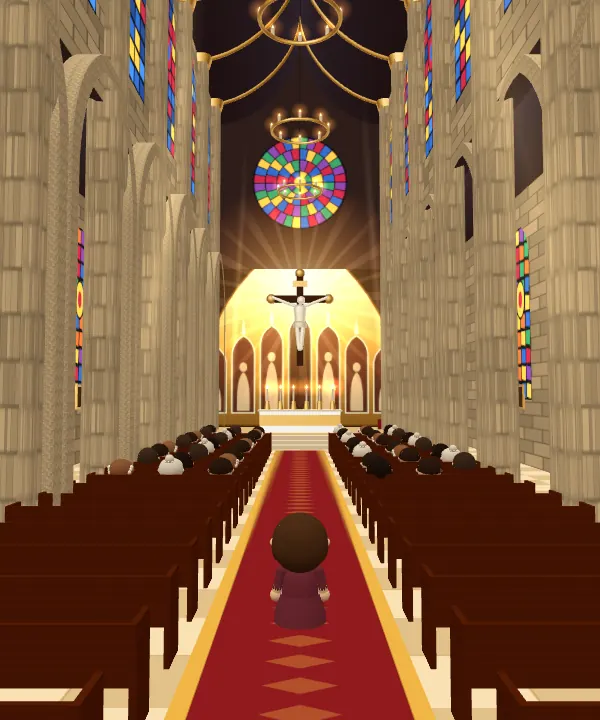
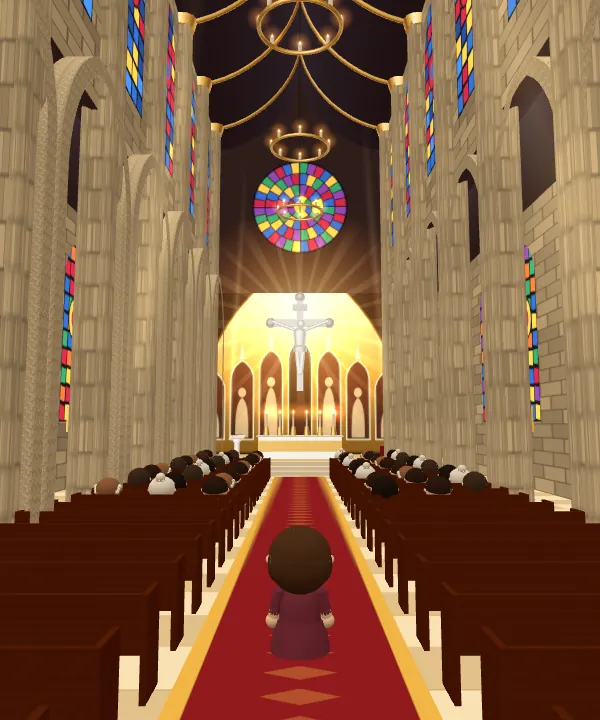
현대 교회 나무 장의자, 공간 사진 다시 찍기, 일본 선종 사찰 삭제, 호흡 명상 타이머 소리 제거, 홈 첫 사진 줄이고 부드럽게
Claude-Session: https://claude.ai/code/session_01TJUsTByDCEcfZsEYPpK4HM

diff --git a/src/worlds/christian/three.ts b/src/worlds/christian/three.ts
@@ -225,41 +225,35 @@ export function buildModern(ctx: BuildCtx): Built {
   for (let z = Z0 + 8; z < Z1 - 2; z += 5) for (const x of [-4, 4]) {
     scene.add(cyl(0.008, 0.008, 2.5, std('#444'), x, H - 2.5, z, 4), box(2.2, 0.06, 0.12, new THREE.MeshBasicMaterial({ color: 0xfff2d8 }), x, H - 2.6, z))
   }
-  // 곡선으로 놓인 나무 의자 + 앉은 교인 + 빈 자리
-  const chairGeo = new THREE.BoxGeometry(0.55, 0.06, 0.5)
-  chairGeo.translate(0, 0.45, 0)
-  const backGeo = new THREE.BoxGeometry(0.55, 0.45, 0.05)
-  backGeo.translate(0, 0.7, 0.24)
-  const mats: THREE.Matrix4[] = []
-  const d = new THREE.Object3D()
+  // 나무 장의자(등받이·옆판·다리) 두 줄 + 앉은 교인 + 빈 자리
+  const pewWood = std('#c49d6c', { map: wood('#b8915e') })
   const people: Parameters<BuildCtx['crowd']>[0] = []
   let pi = 0
-  for (let r = 0; r < 9; r++) {
-    const rad = 10 + r * 1.15
-    for (let c = -7; c <= 7; c++) {
-      if (c === 0) continue // 가운데 통로
-      const a = c * (0.9 / rad) * 1.15
-      const x = Math.sin(a) * rad
-      const z = pZ + 4.2 - 10 + Math.cos(a) * rad + 0.2
-      if (Math.abs(x) > W / 2 - 1.2) continue
-      const yaw = Math.PI + a
-      d.position.set(x, 0, z)
-      d.rotation.set(0, a, 0)
-      d.updateMatrix()
-      mats.push(d.matrix.clone())
-      if ((r * 5 + c + 20) % 4 !== 0 && r < 8) people.push({ x, z: z - 0.05, y: 0.45, yaw, look: visitorLook('christian', pi++) })
-      else ctx.seat(x, z - 0.05, 0.45, yaw)
+  const x0 = 1.0, x1 = W / 2 - 1.6, len = x1 - x0
+  for (let r = 0; r < 10; r++) {
+    const z = pZ + 5 + r * 1.2
+    for (const side of [-1, 1]) {
+      const xc = side * (x0 + len / 2)
+      const pew = new THREE.Group()
+      pew.add(
+        box(len, 0.07, 0.46, pewWood, 0, 0.45, 0), // 앉는 판
+        box(len, 0.5, 0.05, pewWood, 0, 0.8, 0.24), // 등받이
+        box(len, 0.06, 0.08, pewWood, 0, 1.06, 0.25), // 등받이 위 손잡이
+        box(len, 0.05, 0.05, pewWood, 0, 0.12, -0.1), // 아래 가로대
+      )
+      for (const ex of [-len / 2, len / 2]) pew.add(box(0.07, 1.0, 0.56, pewWood, ex, 0.5, 0.03)) // 옆판
+      for (const lx of [-len / 4, len / 4]) pew.add(box(0.06, 0.42, 0.06, pewWood, lx, 0.21, -0.12))
+      pew.position.set(xc, 0, z)
+      scene.add(pew)
+      ctx.block({ x0: xc - len / 2 - 0.05, z0: z - 0.3, x1: xc + len / 2 + 0.05, z1: z + 0.3 })
+      for (let k = 0; k < 10; k++) {
+        const x = side * (x0 + 0.4 + k * ((len - 0.8) / 9))
+        if ((r * 7 + k + (side > 0 ? 3 : 0)) % 4 !== 0 && r < 9) people.push({ x, z: z - 0.03, y: 0.45, yaw: Math.PI, look: visitorLook('christian', pi++) })
+        else ctx.seat(x, z - 0.03, 0.45, Math.PI)
+      }
     }
   }
-  const seatM = new THREE.InstancedMesh(chairGeo, std('#6a7a80'), mats.length)
-  const backM = new THREE.InstancedMesh(backGeo, lightOak, mats.length)
-  mats.forEach((m, i) => { seatM.setMatrixAt(i, m); backM.setMatrixAt(i, m) })
-  scene.add(seatM, backM)
   ctx.crowd(people)
-  for (const m of mats) {
-    const p = new THREE.Vector3().setFromMatrixPosition(m)
-    ctx.block({ x0: p.x - 0.32, z0: p.z - 0.3, x1: p.x + 0.32, z1: p.z + 0.3 })
-  }
   ctx.spot('stage', 0, pZ + 4.6, 2)
   ctx.walk({ x0: -W / 2, z0: pZ + 3.4, x1: W / 2, z1: Z1 })
   return {

diff --git a/src/ui/styles.css b/src/ui/styles.css
@@ -1006,3 +1006,28 @@ fieldset { scroll-margin-top: 80px; }
 .screen .seg.mode button[aria-checked='true'], .seg.mode button[aria-checked='true'] { background: var(--text); color: #fff; }
 .screen-cover .cover-img[src*='temple_courtyard'] { object-position: 50% 75%; }
 .space-row .soon-art { position: static; inset: auto; width: auto; height: auto; }
+
+/* 홈: 덜 딱딱하게 — 사진은 둥근 카드 안에 알맞은 크기로, 섹션은 부드러운 카드 */
+.home .h-hero { margin: 16px 0 0; width: auto; min-height: clamp(340px, 50vh, 500px); border-radius: 18px; }
+.home .h-hero-text { padding: 0 clamp(24px, 5vw, 64px); }
+.home .h-hero h1 { font-size: clamp(1.7rem, 3.6vw, 2.7rem); line-height: 1.35; }
+.home .h-hero .lead { font-size: clamp(.95rem, 1.6vw, 1.05rem); margin-bottom: 24px; }
+@media (max-width: 620px) {
+  .home .h-hero { min-height: 440px; border-radius: 16px; margin-top: 12px; }
+  .home .h-hero-text { padding: 36px 22px 0; }
+  .home .h-hero h1 { font-size: 1.6rem; }
+  .home .h-hero .lead br { display: none; }
+}
+.home .h-sec { padding-top: 64px; }
+.home .h-sec-head h2, .home .h-band h2 { font-size: clamp(1.3rem, 2.6vw, 1.75rem); }
+.home .h-band { background: #F1ECE3; box-shadow: none; padding: 32px; gap: 20px; justify-content: flex-start; align-items: center; border-radius: 18px; }
+.home .h-band > div { flex: 1; min-width: 220px; }
+.band-ic { width: 56px; height: 56px; border-radius: 50%; background: #fff; color: var(--bronze); display: grid; place-items: center; flex: none; }
+.home .card { border-radius: 14px; }
+.home .faith-row .card .fg-img img { transition: transform .8s ease; }
+.home .faith-row .card:hover .fg-img img { transform: scale(1.04); }
+.quiet-tiles a { padding: 26px 14px; text-align: center; border-radius: 14px; }
+.quiet-tiles small { line-height: 1.5; }
+.home .space-row { border-radius: 14px; }
+.home .foot { margin-top: 72px; }
+.home .sr-tour { display: none; }

diff --git a/src/worlds/temple/World.tsx b/src/worlds/temple/World.tsx
@@ -1,5 +1,5 @@
 import { useEffect, useRef, type RefObject } from 'react'
-import { jukbi, toggleMusic } from '../../core/audio'
+import { toggleMusic } from '../../core/audio'
 import type { WorldProps } from '../../core/registry'
 import { getState, useStore } from '../../core/store'
 import { useLocal, useT } from '../../i18n'
@@ -19,10 +19,8 @@ function DefList({ items }: { items: [string, string][] }) {
 
 /** 호흡 명상: 시작하면 아바타가 방석으로 가서 앉고(합장), 숨 원이 커졌다 작아짐 */
 function Breath({ t, api }: { t: T; api: RefObject<SceneApi | null> }) {
-  const cd = useCountdown(() => {
-    jukbi(1)
-    api.current?.stand?.()
-  })
+  // 호흡 명상 타이머에는 소리를 넣지 않는다(사용자 요청: 시작·끝 딱딱 소리 제거)
+  const cd = useCountdown(() => api.current?.stand?.())
   const elapsed = cd.total - cd.left
   const inhale = elapsed % 10 < 4
   return (
@@ -32,12 +30,12 @@ function Breath({ t, api }: { t: T; api: RefObject<SceneApi | null> }) {
           <div className={`breath-orb ${inhale ? 'in' : 'out'}`} aria-hidden="true" />
           <span className="timer-phase" aria-live="polite">{inhale ? t.inhale : t.exhale}</span>
           <span className="timer-big">{mmss(cd.left)}</span>
-          <Btn onClick={() => { cd.stop(); jukbi(1); api.current?.stand?.() }}>{t.end}</Btn>
+          <Btn onClick={() => { cd.stop(); api.current?.stand?.() }}>{t.end}</Btn>
         </div>
       ) : (
         <div className="row">
           {[3, 5, 10].map((m) => (
-            <Btn key={m} onClick={() => { jukbi(3); api.current?.sit?.(); cd.start(m * 60) }}>{m}{t.min}</Btn>
+            <Btn key={m} onClick={() => { api.current?.sit?.(); cd.start(m * 60) }}>{m}{t.min}</Btn>
           ))}
         </div>
       )}

diff --git a/src/ui/Mine.tsx b/src/ui/Mine.tsx
@@ -1,5 +1,5 @@
 import { useEffect, useState } from 'react'
-import { bell, jukbi } from '../core/audio'
+import { bell } from '../core/audio'
 import { resolvePlace, WORLDS } from '../core/registry'
 import { href } from '../core/router'
 import { addMinutes, update, useStore } from '../core/store'
@@ -75,7 +75,8 @@ function Prayer() {
 function Meditate() {
   const tm = useLocal(TS)
   const t = useT()
-  const cd = useCountdown(() => { jukbi(1); addMinutes('meditate', cd.total) })
+  // 호흡 명상 타이머에는 소리를 넣지 않는다
+  const cd = useCountdown(() => addMinutes('meditate', cd.total))
   const inhale = (cd.total - cd.left) % 10 < 4
   return (
     <>
@@ -84,10 +85,10 @@ function Meditate() {
           <div className={`breath-orb ${inhale ? 'in' : 'out'}`} aria-hidden="true" />
           <span className="timer-phase" aria-live="polite">{inhale ? tm.inhale : tm.exhale}</span>
           <span className="timer-big">{mmss(cd.left)}</span>
-          <Btn onClick={() => { cd.stop(); jukbi(1) }}>{tm.end}</Btn>
+          <Btn onClick={cd.stop}>{tm.end}</Btn>
         </div>
       ) : (
-        <div className="row">{[3, 5, 10].map((m) => <Btn key={m} onClick={() => { jukbi(3); cd.start(m * 60) }}>{m}{tm.min}</Btn>)}</div>
+        <div className="row">{[3, 5, 10].map((m) => <Btn key={m} onClick={() => cd.start(m * 60)}>{m}{tm.min}</Btn>)}</div>
       )}
       <Note>{tm.breathNote}</Note>
       <p><a className="btn" href={href('w/temple/meditation')}>{t.mine.meditateHall}</a></p>

diff --git a/src/worlds/temple/strings.ts b/src/worlds/temple/strings.ts
@@ -43,7 +43,7 @@ const ko = {
   bowNote: '부처님께 세 번 절합니다(삼배). 합장하고 무릎을 꿇어 이마를 바닥에 댑니다.',
   stayTitle: '템플스테이',
   stayNote: '실제 템플스테이는 각 사찰에서 직접 신청합니다. 이곳에서는 예불·발우공양·울력 같은 하루 흐름을 소개할 예정입니다.',
-  others: '일본 선종 정원, 태국의 황금 불탑, 티베트의 만다라와 기도 깃발은 각 전통을 조사·검토한 뒤 차례로 엽니다.',
+  others: '태국의 황금 불탑, 티베트의 만다라와 기도 깃발은 각 전통을 조사·검토한 뒤 차례로 엽니다.',
 }
 
 const en: typeof ko = {
@@ -91,7 +91,7 @@ const en: typeof ko = {
   bowNote: 'Three prostrations to the Buddha: palms joined, kneel and touch the forehead to the floor.',
   stayTitle: 'Templestay',
   stayNote: "Real templestays are booked with each temple. We will introduce the day's rhythm: chanting, the formal meal and communal work.",
-  others: 'Japanese Zen gardens, Thai golden stupas and Tibetan mandalas and prayer flags will open one by one after research and review of each tradition.',
+  others: 'Thai golden stupas and Tibetan mandalas and prayer flags will open one by one after research and review of each tradition.',
 }
 
 export default { ko, en }

diff --git a/src/ui/Home.tsx b/src/ui/Home.tsx
@@ -57,6 +57,7 @@ export default function Home() {
 
       {/* 3. 나의 믿음 찾기 */}
       <section className="h-sec h-band">
+        <span className="band-ic" aria-hidden="true"><Icon name="compass" size={28} /></span>
         <div>
           <h2>{t.h.fdTitle}</h2>
           <p>{t.h.fdSub}</p>
@@ -84,13 +85,13 @@ export default function Home() {
           <h2>{t.h.quietTitle}</h2>
           <p>{t.h.quietSub}</p>
         </header>
-        <ul className="quiet">
-          {t.h.quiet.map(([name, sub, to]) => (
+        <ul className="tiles quiet-tiles">
+          {t.h.quiet.map(([name, sub, to], i) => (
             <li key={name}>
               <a href={href(to)}>
+                <Icon name={(['pray', 'lotus', 'book', 'diya'] as const)[i] ?? 'compass'} size={26} />
                 <strong>{name}</strong>
-                <span>{sub}</span>
-                <span className="arrow" aria-hidden="true"><Icon name="chev" size={16} /></span>
+                <small>{sub}</small>
               </a>
             </li>
           ))}

diff --git a/src/worlds/temple/meta.ts b/src/worlds/temple/meta.ts
@@ -3,7 +3,6 @@ export const places: PlaceMeta[] = [
   { id: 'daeung', ko: '대웅전 (법당 안)', en: 'Main Buddha hall', desc: { ko: '금빛 석가모니불과 연등, 향 올리기와 삼배', en: 'Golden Buddha, lanterns, incense and three bows' } },
   { id: 'courtyard', ko: '사찰 마당', en: 'Temple courtyard', desc: { ko: '일주문·석탑·범종각, 연등 켜기와 범종 치기', en: 'Gate, pagoda, bell pavilion and lanterns' } },
   { id: 'meditation', ko: '명상실', en: 'Meditation hall', desc: { ko: '방석에 앉아 호흡 명상', en: 'Breathing meditation on a cushion' } },
-  { id: 'zen', ko: '일본 선종 사찰', en: 'Japanese Zen temple', soon: true },
   { id: 'thai', ko: '태국 사원', en: 'Thai temple', soon: true },
   { id: 'tibet', ko: '티베트 사원', en: 'Tibetan monastery', soon: true },
 ]

diff --git a/docs/PLAN.md b/docs/PLAN.md
@@ -157,7 +157,7 @@ src/
 | **2. 힌두교 통합** | 결정: 지금은 연결만(1안), 최종은 완전 통합(3안). 3안 때 소스 이전 + 기록 옮기기 + pujatime.pages.dev → 오루비아 이동 + 같은 서명 키로 안드로이드 앱 전환 | PujaTime 소스·서명 키 필요 |
 | 2+. 로그인·동기화 | Worker + D1, OAuth, 계정 삭제 기능(스토어 필수) | 미구현 |
 | **3. 기독교·천주교 심화** | 성경·기도문 본문(번역 허가 후), 실제 녹음, 3D 내부 | 미구현 |
-| **4. 불교 확장** | 일본 선종·태국·티베트 공간(조사·검토 후), 템플스테이 일과 | 미구현 (탭에 "준비 중"으로 표시) |
+| **4. 불교 확장** | 태국·티베트 공간(일본 선종 사찰은 넣지 않기로 함)(조사·검토 후), 템플스테이 일과 | 미구현 (탭에 "준비 중"으로 표시) |
 | **5. 글로벌** | 일본어·중국어·힌디어, 공동 방문·행사 | 미구현 |
 
 ### 이번에 구현된 체험
